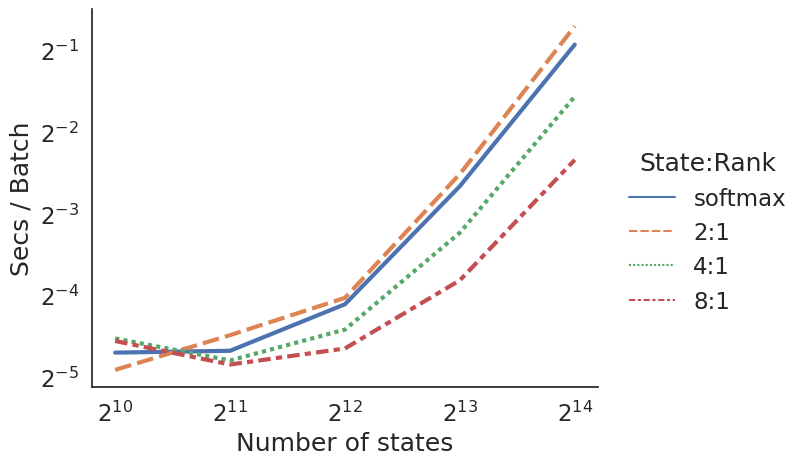
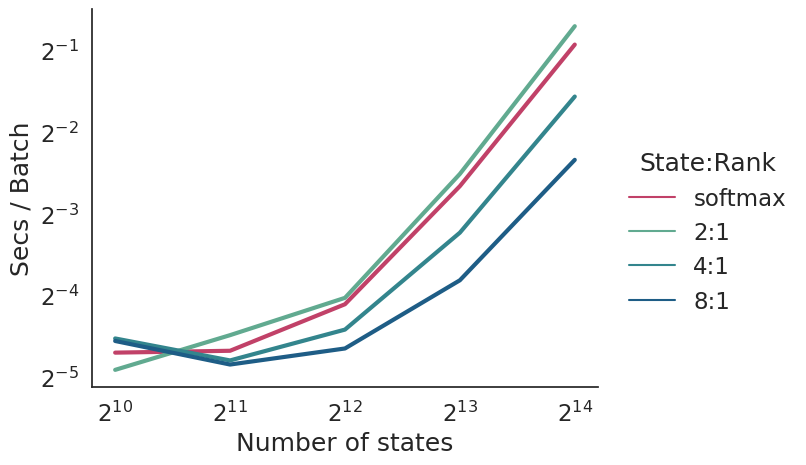
.

diff --git a/large_lhmm_states_feats.py b/large_lhmm_states_feats.py
@@ -10,6 +10,8 @@ import math
 #sns.set(font_scale=1.5)
 sns.set_theme(style="white", font_scale=1.5)
 
+pal = sns.color_palette("flare", 1) + sns.color_palette("crest", 3)
+
 data = np.array([
     #16k  8k   4k   2k   1k   
     (159, 160, 165, 172, 182,), # softmax
@@ -57,7 +59,10 @@ acc_df = pd.DataFrame(
     index=[16384, 8192, 4096, 2048, 1024],
 )
 
-g = sns.relplot(data=acc_df, kind="line", linewidth=3, aspect=1.3)
+g = sns.relplot(data=acc_df, kind="line", linewidth=3, aspect=1.3,
+    dashes=False,
+    palette=pal,
+)
 g.set_axis_labels("Number of states", "Valid PPL")
 g.legend.set_title("State:Rank")
 ax = g.axes[0][0]
@@ -80,7 +85,10 @@ speed_df = pd.DataFrame(
     index=[16384, 8192, 4096, 2048, 1024],
 )
 
-g = sns.relplot(data=speed_df, kind="line", linewidth=3, aspect=1.3)
+g = sns.relplot(data=speed_df, kind="line", linewidth=3, aspect=1.3,
+    dashes=False,
+    palette=pal,
+)
 g.set_axis_labels("Number of states", "Secs / Batch")
 g.legend.set_title("State:Rank")
 ax = g.axes[0][0]
@@ -101,7 +109,8 @@ g.savefig("lhmm-states-features-speed.png")
 pal = sns.color_palette("flare", 1) + sns.color_palette("crest", 3)
 fig, (ax1, ax2) = plt.subplots(1, 2, figsize=(16,6))
 sns.lineplot(
-    data=acc_df, linewidth=3, ax=ax1, legend=False, dashes=False,
+    data=acc_df, linewidth=3, ax=ax1, legend=False,
+    dashes=False,
     palette=pal,
 )
 ax1.set_xlabel("Number of states")
